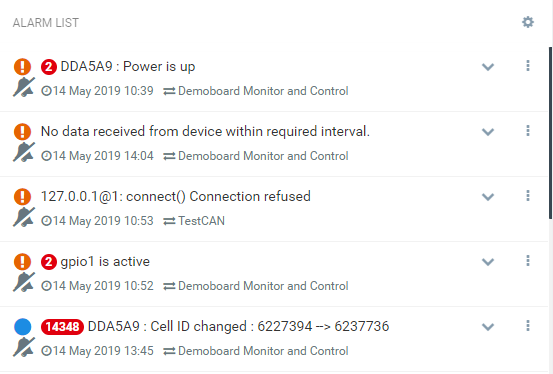
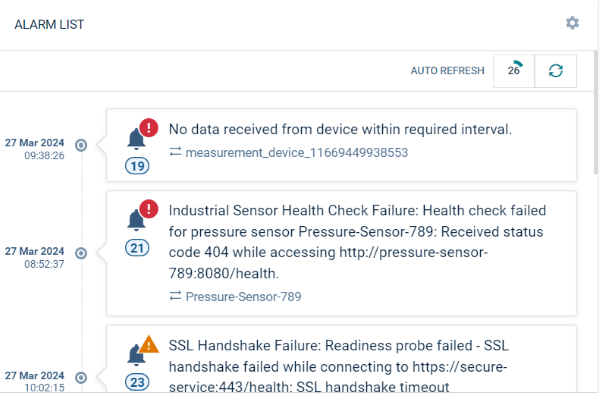
adjusted alarms widget description

diff --git a/content/cockpit/widgets-collection.md b/content/cockpit/widgets-collection.md
@@ -30,15 +30,8 @@ The "Alarm list" widget shows a list of alarms, filtered by objects, alarm sever
 |Status|Only show devices with alarms of of the selected alarm status.
 |Type|Only show alarms of the specified type(s). Details can be seen when clicking once on an alarm.
 |Severities|Only show alarms of the selected alarm severity.
-|Order|Alarms may be ordered by the active status (followed by severity and time, the default) or the severity (followed by time).
-
-### All critical alarms {#all-critical-alarms}
-
-The "All critical alarms" widget shows all objects with a critical alarm. Apart from the title, there are no additional parameters to be configured.
-
-![Critical alarms](/images/users-guide/cockpit/cockpit-widget-critical-alarms.png)
-
-For details on alarms, refer to [Working with alarms](/device-management-application/monitoring-and-controlling-devices/#working-with-alarms).
+|Order|Alarms may be ordered by the active status (followed by severity and time, the default), by date (followed by time, either in descending or ascending order), or by severity (followed by time).
+|Auto refresh|Enables you to automatically refresh the alarm list at the frequency you select.
 
 ### Applications {#applications}
 
